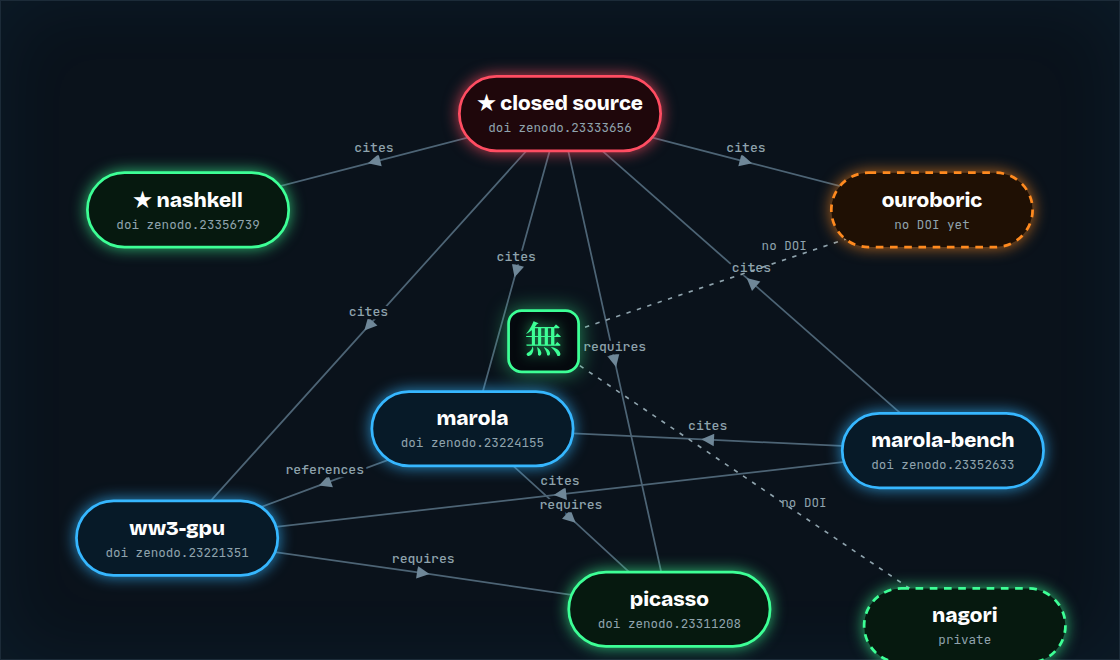
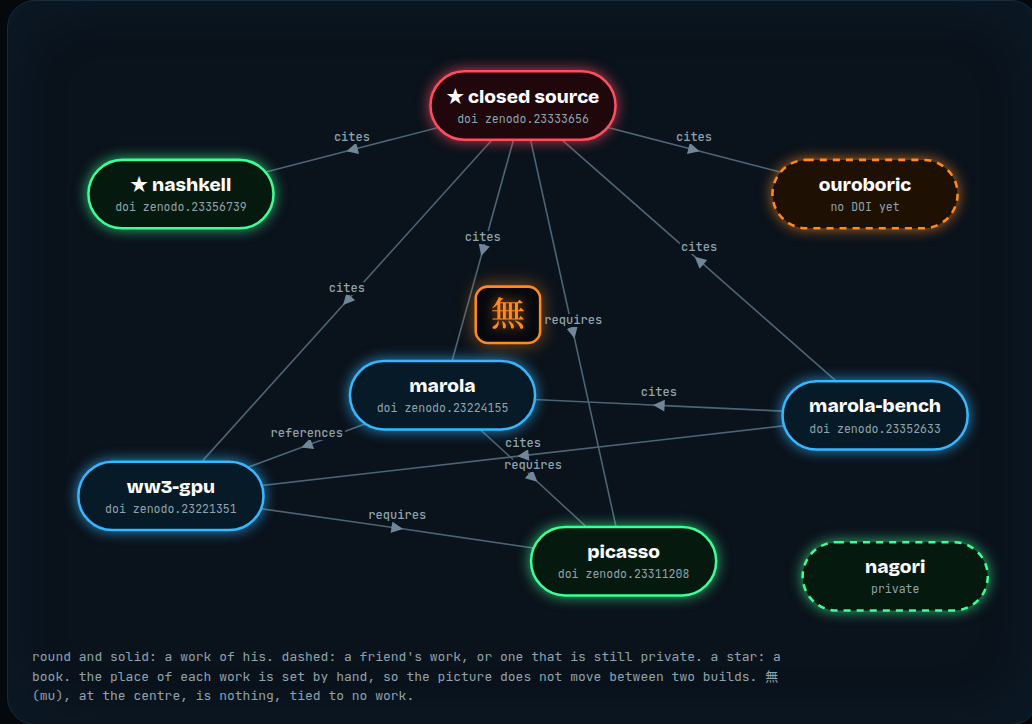
site: 無 (mu) is orange and tied to no work
The owner, 15 October 2026: no dashed lines from 無, a colour of its own (orange), and no tie
to any work. The "no DOI" ties, their label and their translation rows go; 無 takes --ouro.

diff --git a/site/static/style.css b/site/static/style.css
@@ -141,11 +141,9 @@ a.node { text-decoration: none; cursor: pointer; }
 a.node:hover rect, a.node:focus-visible rect { stroke-width: 4.5; }
 a.node:focus-visible { outline: none; }
 .is-dim { opacity: .16; }
-/* 無 (mu) at the centre of the graph, drawn as the arc's glyph for 名残: green, an idea. */
-.mu rect { fill: var(--night); stroke: var(--ideas); stroke-width: 2.5; filter: drop-shadow(0 0 9px rgba(61, 255, 150, .5)); }
-.mu text { font: 600 34px 'Noto Serif JP', 'Hiragino Mincho ProN', 'Yu Mincho', serif; fill: var(--ideas); filter: drop-shadow(0 0 6px rgba(61, 255, 150, .7)); }
-.mu-tie path { fill: none; stroke: var(--muted); stroke-width: 1.5; stroke-dasharray: 4 6; }
-.mu-tie text { font: 400 11.5px var(--data); fill: var(--muted); }
+/* 無 (mu) at the centre of the graph: orange, tied to no work (the owner, 15 October 2026). */
+.mu rect { fill: var(--night); stroke: var(--ouro); stroke-width: 2.5; filter: drop-shadow(0 0 9px rgba(255, 138, 31, .5)); }
+.mu text { font: 600 34px 'Noto Serif JP', 'Hiragino Mincho ProN', 'Yu Mincho', serif; fill: var(--ouro); filter: drop-shadow(0 0 6px rgba(255, 138, 31, .7)); }
 .works { list-style: none; margin: 34px 0 0; padding: 0; display: grid; grid-template-columns: repeat(2, minmax(0, 1fr)); gap: 0 40px; }
 .works li { padding: 16px 0 16px 16px; border-left: 3px solid var(--ideas); margin-bottom: 18px; }
 .works li.topic-water { border-color: var(--water); box-shadow: -6px 0 14px -8px var(--water); }

diff --git a/DESIGN.md b/DESIGN.md
@@ -88,9 +88,8 @@ A light may glow, like a tube of neon: a soft shadow of its own colour.
 ## Shapes
 
 - **無 (mu, "nothing") is the centre of the graph** (the owner, 14 October 2026), in kanji and
-  drawn as the arc draws 名残: green, in a rounded square. A dashed muted line, labelled "no DOI",
-  goes from it to each work of `site/data/works.tsv` that has no DOI; when a work gets one, its
-  line goes away by itself.
+  in a rounded square. It is orange and tied to no work: no line goes from it (the owner,
+  15 October 2026).
 - **Round.** Buttons, the nodes of the graph and the chips of an era are pills. A panel has a
   large radius. There is no sharp card.
 - **A line, not a box.** A list is set apart by a rule or by a light on its left edge, not by a
